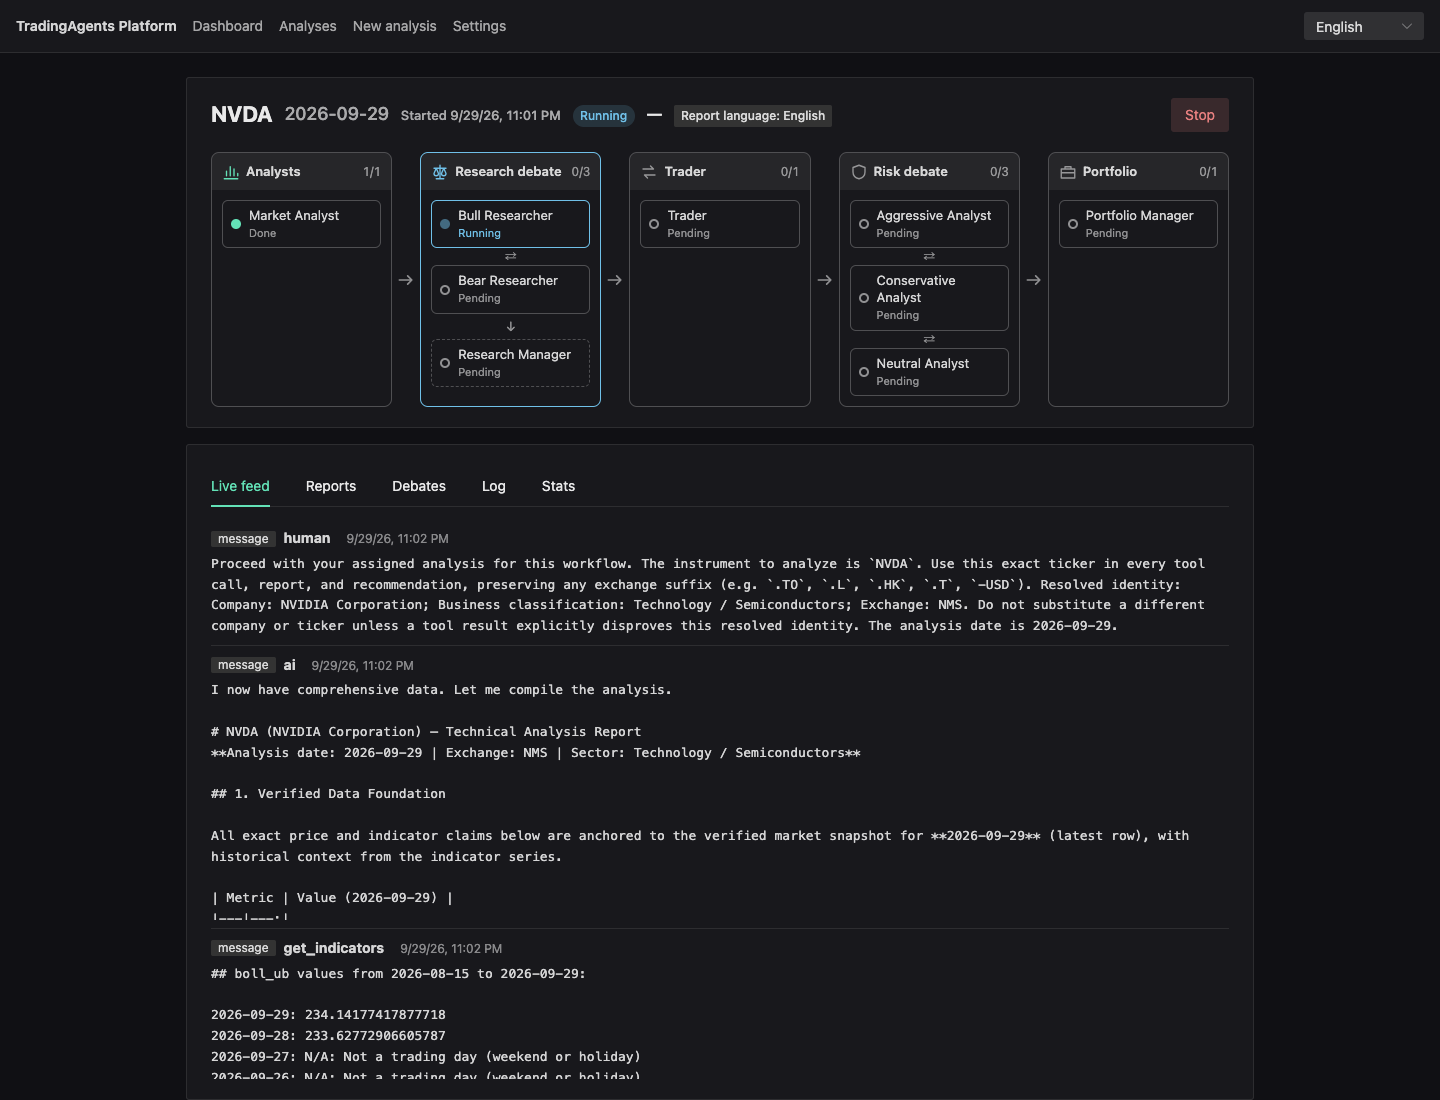
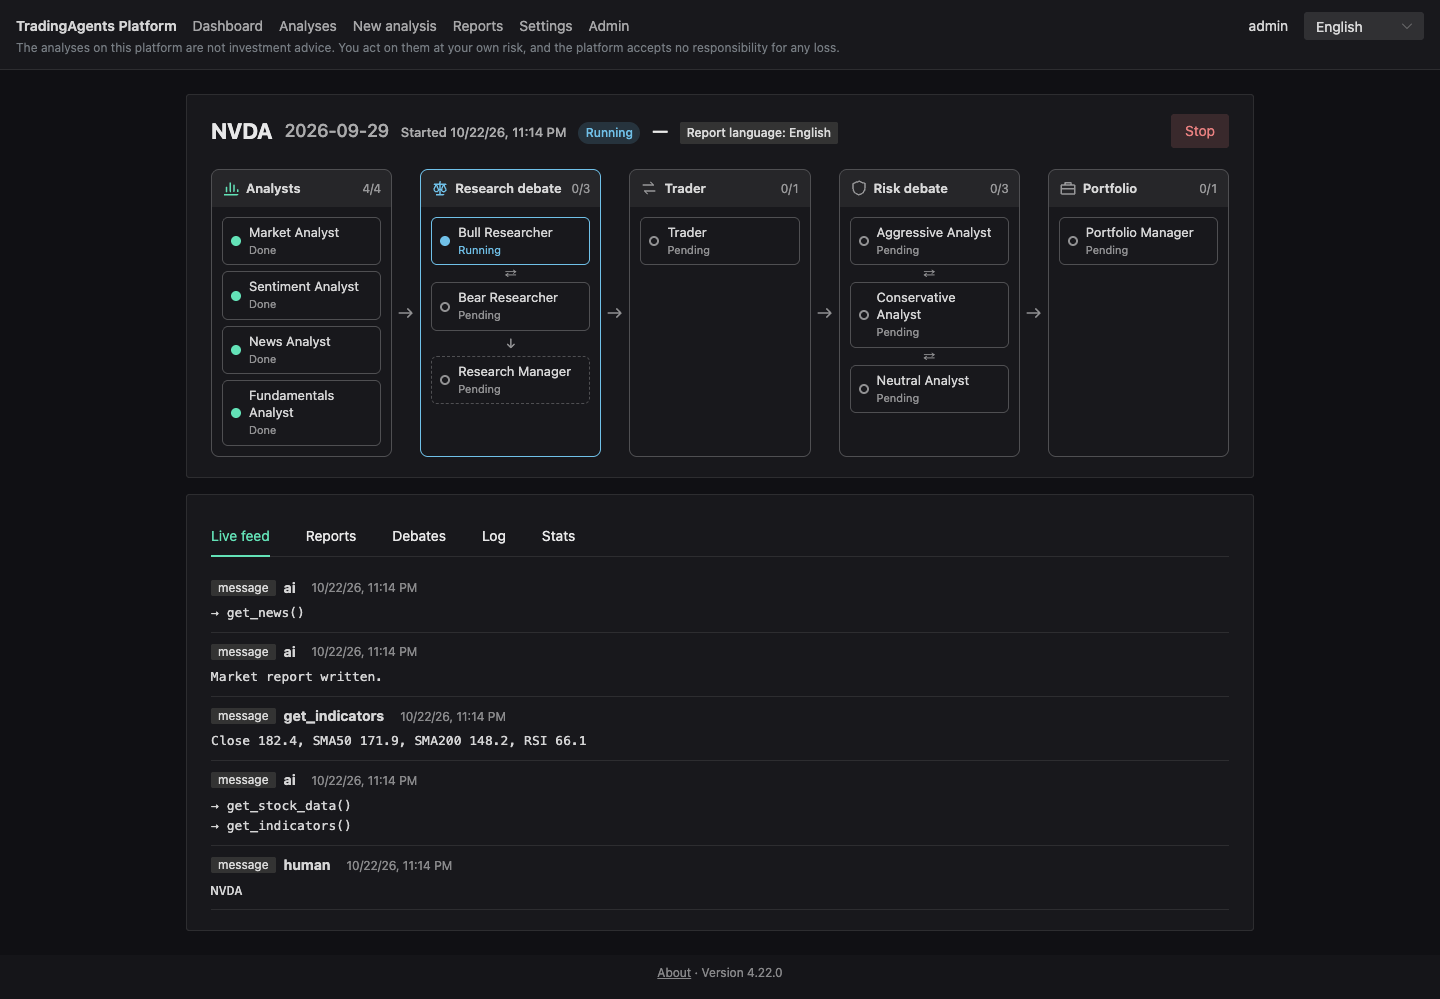
Address R1-1: Take the three full-page screenshots with the shots

diff --git a/e2e/screenshots/run.shot.ts b/e2e/screenshots/run.shot.ts
@@ -1,0 +1,59 @@
+import { expect, test } from '@playwright/test'
+import { replayedRun } from './runs'
+import { shot } from './support'
+
+const PAGE = { x: 0, y: 0, width: 1440 }
+
+// README, "5. Start an analysis": a finished analysis, its pipeline and the decision card.
+test('finished analysis', async ({ page, request }) => {
+  const id = await replayedRun(request, 'MU', '2026-09-29')
+  await page.goto(`/analyses/${id}`)
+  await expect(page.getByText('Completed')).toBeVisible()
+  await expect(page.getByRole('heading', { name: 'Portfolio Manager Decision' })).toBeVisible()
+  await shot(page, 'run-decision', undefined, { ...PAGE, height: 1000 })
+})
+
+// README, "6. Watch it and read the results": the replay is over in seconds, so the run is shown as
+// it was a minute in: the event stream is cut after the bull researcher started, and the analysis
+// is reported as running.
+test('running analysis', async ({ page, request }) => {
+  const id = await replayedRun(request, 'NVDA', '2026-09-29')
+  const stream = await (await request.get(`/api/analyses/${id}/events`)).text()
+  const blocks = stream.split('\n\n')
+  const bullStarted = blocks.findIndex(
+    (block) => block.includes('Bull Researcher') && block.includes('in_progress'),
+  )
+  expect(bullStarted).toBeGreaterThan(0)
+  const endBlock = 'event: end\ndata: end'
+  await page.route(`**/api/analyses/${id}/events`, (route) =>
+    route.fulfill({
+      contentType: 'text/event-stream',
+      // The `end` event keeps the page from showing "Connection lost, reconnecting...".
+      body: [...blocks.slice(0, bullStarted + 1), endBlock].join('\n\n') + '\n\n',
+    }),
+  )
+  await page.route(`**/api/analyses/${id}`, async (route) => {
+    const response = await route.fetch()
+    const analysis = (await response.json()) as Record<string, unknown>
+    await route.fulfill({
+      response,
+      json: { ...analysis, status: 'RUNNING', rating: null, decision: null, finishedAt: null },
+    })
+  })
+  await page.goto(`/analyses/${id}`)
+  await expect(page.locator('.n-tag__content', { hasText: 'Running' })).toBeVisible()
+  await expect(page.locator('.agent__status', { hasText: 'Running' })).toBeVisible()
+  await shot(page, 'run-live', undefined, { ...PAGE, height: 1100 })
+})
+
+// README, "Reports": the list, the contents and the report with its chart.
+test('reports page', async ({ page, request }) => {
+  test.setTimeout(240_000)
+  await replayedRun(request, 'MU', '2026-09-26')
+  await replayedRun(request, 'NVDA', '2026-09-27')
+  await page.goto('/reports')
+  await page.getByRole('button', { name: /NVDA.*2026-09-27/ }).click()
+  await expect(page.getByRole('navigation', { name: 'Contents' })).toBeVisible()
+  await expect(page.getByRole('button', { name: 'Markdown', exact: true })).toBeVisible()
+  await shot(page, 'reports')
+})

diff --git a/.plans/195-investment-disclaimer.md b/.plans/195-investment-disclaimer.md
@@ -118,6 +118,8 @@ the version), so every user finds it.
         produce a Turkish report, the test uses the recording with the language recorded as Turkish;
         see the open question.
   - [x] Add an About screenshot shot; retake the screenshots the header changes (see Docs).
+  - [x] `e2e/screenshots/run.shot.ts` takes `run-decision.png`, `run-live.png` and `reports.png`,
+        which were taken by hand, so `mise run screenshots` keeps them up to date.
 - **Tests**: the e2e tests above prove the issue's acceptance criteria; a phone-width viewport
   check (390 px) asserts the page has no horizontal scroll with the header disclaimer shown.
 
